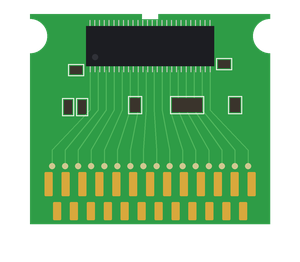
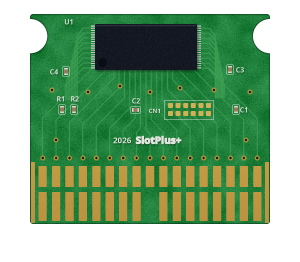
Pokémon mini: START opens the cart to a board drawn after the real one
- assets/src/carts.py pm draws pm_board.png in the WonderSwan board's
  style, after a real board: one wide chip with legs down its short sides,
  the small parts round it, a block of test pads, vias over the contacts
  and two rows of gold contacts, with the 2026 SlotPlus+ mark. No makers'
  names. tools/cart_art/pokemini.py no longer draws the board.
- board_face writes the game's name on the chip; shows_board_alone opens
  it the way the WonderSwan's opens.
- The play-time and gold stickers sit low on the board, either side of
  its mark, so a Pokémon mini shows its play time.

Claude-Session: https://claude.ai/code/session_01ECk6CDMKrY89HoAvKfhDo4

diff --git a/assets/src/carts.py b/assets/src/carts.py
@@ -597,7 +597,120 @@ def lynx():
     rgba_colour(decal, dalpha).save(os.path.join(ASSETS, "lynx_decal.png"))
 
 
-MOULDS = {"ws": wonderswan, "lynx": lynx}
+# --------------------------------------------------------------------------
+# The Pokémon mini board, after the real one: bright green, a half-round cut in
+# each side by the top for the shell's screw posts, one wide flat chip with its
+# legs down both short sides, a few small parts round it, a little block of test
+# pads, a row of vias over the contacts, and two rows of gold contacts along the
+# foot. No makers' names or marks; the slotPlus mark instead.
+
+PM_GREEN = np.array([30, 128, 58], np.float32)
+PM_TRACE = np.array([64, 162, 86], np.float32)
+# Where the chip's marking goes; `slot_ui::board` writes the game's name there.
+PM_ROM = (95, 24, 197, 70)
+PM_BOARD = (30, 14, 270, 224)
+
+
+def pm_pcb(c):
+    rng = np.random.default_rng(61)
+    x0, y0, x1, y1 = PM_BOARD
+    outline = c.rrect(c.layer(), x0, y0, x1, y1, 3)
+    cut = c.layer()
+    for cx in (x0, x1):
+        c.ellipse(cut, cx - 17, 36 - 17, cx + 17, 36 + 17)
+    region = np.clip(f(outline) - f(cut), 0, 1)
+
+    rgb = np.ones((c.H, c.W, 3), np.float32) * PM_GREEN
+    blotch = ndimage.gaussian_filter(rng.normal(0, 1, (c.H // 8 + 1, c.W // 8 + 1)), 2.2)
+    blotch = np.kron(blotch / max(blotch.std(), 1e-6), np.ones((8, 8)))[: c.H, : c.W]
+    rgb += (blotch * 6.0)[..., None].astype(np.float32)
+    rgb += grain((c.H, c.W), 62, 4.0)[..., None]
+
+    count = 17
+    fx0, fx1 = x0 + 6, x1 - 6
+    pitch = (fx1 - fx0) / count
+    finger_x = [fx0 + pitch * (k + 0.5) for k in range(count)]
+    via_y = 158
+    rx0, ry0, rx1, ry1 = PM_ROM
+
+    # Traces: up from the vias over the contacts, a 45-degree jog, and in under
+    # the chip; and out from its legs to the small parts.
+    traces = c.layer()
+    d = ImageDraw.Draw(traces)
+    for k, fx in enumerate(finger_x):
+        tx = rx0 + 8 + k * (rx1 - rx0 - 16) / (count - 1)
+        bend = 134 - abs(k - count // 2) * 2.0
+        route(d, [(fx, via_y), (fx, bend), (tx, bend - abs(fx - tx)), (tx, ry1)], 1.2)
+    for k in range(9):
+        y = ry0 + 4 + k * 5.0
+        route(d, [(rx0 - 4, y), (rx0 - 12, y), (rx0 - 18 - k * 1.5, y + 8 + k * 1.2), (rx0 - 18 - k * 1.5, 100)], 1.0)
+        route(d, [(rx1 + 4, y), (rx1 + 12, y), (rx1 + 18 + k * 1.2, y + 8 + k), (rx1 + 18 + k * 1.2, 98)], 1.0)
+    rgb = paint(rgb, soft(f(traces), 0.2), PM_TRACE, 0.85)
+
+    # The chip, legs down both short sides.
+    rgb = silk_text(c, rgb, rx0 - 26, ry0 - 2, "U1", 7)
+    rgb = chip_with_legs(c, rgb, rx0, ry0, rx1, ry1, "lr", 2.2, leg=4.0, seed=63)
+
+    # The small parts.
+    for (x, y, v, lab, at) in [
+        (64, 68, True, "C4", (54, 72)),
+        (60, 106, True, "R1", (61, 99)), (72, 106, True, "R2", (75, 99)),
+        (132, 108, False, "C2", (136, 101)),
+        (228, 66, True, "C3", (240, 70)),
+        (234, 106, True, "C1", (244, 110)),
+    ]:
+        rgb = passive(c, rgb, x, y, v, lab, at)
+
+    # The block of test pads, two rows of six in a box.
+    rgb = silk_box(c, rgb, 164, 100, 214, 120)
+    pads = c.layer()
+    for row in range(2):
+        for k in range(6):
+            px, py = 168 + k * 7.6, 103 + row * 8
+            c.rrect(pads, px, py, px + 5, py + 5, 0.8)
+    rgb = paint(rgb, f(pads), [210, 176, 86])
+    rgb = silk_text(c, rgb, 155, 111, "CN1", 6)
+
+    # Vias: a row over the contacts, and a few where traces go through.
+    pts = [(fx, via_y) for fx in finger_x]
+    pts += [(52, 90), (88, 92), (120, 86), (180, 88), (214, 90), (250, 92),
+            (56, 140), (246, 140), (150, 92)]
+    rgb = vias(c, rgb, pts, r=2.4)
+
+    # The board's mark, between where the stickers go.
+    rgb = silk_mark(c, rgb, 182, 140, year_px=8, name_px=10)
+
+    # A dark rim round the board's edge.
+    dist = ndimage.distance_transform_edt(region > 0.5) / S
+    rgb = rgb * (1 - 0.35 * np.clip(1.6 - dist, 0, 1))[..., None]
+    rgb = rgb * region[..., None]
+    alpha = region
+    # Two rows of contacts, the lower with a gap in the middle, and a wide pad
+    # at each end.
+    rgb, alpha = fingers(c, fx0, fx1, 166, 187, count, rgb, alpha, width=0.62)
+    lower = c.layer()
+    for k, fx in enumerate(finger_x):
+        if k == count // 2:
+            continue
+        c.rrect(lower, fx - pitch * 0.31, 192, fx + pitch * 0.31, y1 - 3, 0.4)
+    for ex0, ex1 in ((x0 + 1, x0 + 5), (x1 - 5, x1 - 1)):
+        c.rrect(lower, ex0, 162, ex1, y1 - 1, 0.6)
+    g = f(lower)
+    shine = np.linspace(1.08, 0.86, c.H)[:, None]
+    gold = np.array([208, 164, 72], np.float32) * shine[..., None]
+    rgb = rgb * (1 - g[..., None]) + gold * g[..., None]
+    return rgb, np.maximum(alpha, g)
+
+
+def pokemini():
+    """Only the board: the rest of the Pokémon mini's layers come from
+    tools/cart_art/pokemini.py."""
+    c = Canvas(300, 262)
+    board, balpha = pm_pcb(c)
+    rgba_colour(board, balpha).save(os.path.join(ASSETS, "pm_board.png"))
+
+
+MOULDS = {"ws": wonderswan, "lynx": lynx, "pm": pokemini}
 
 if __name__ == "__main__":
     for name in sys.argv[1:] or MOULDS:

diff --git a/tools/cart_art/pokemini.py b/tools/cart_art/pokemini.py
@@ -8,8 +8,9 @@ Writes, all 300x262:
   pm_neutral.png   the grey shell the game's colour is blended onto
   pm_clear.png     the same for a clear shell (the Pokémon mini's usual frosted plastic)
   pm_interior.png  the back half's inside
-  pm_board.png     the board, seen through a clear shell
   pm_decal.png     the hood's lip and its shadow, drawn over the label
+
+The board (pm_board.png) is drawn by assets/src/carts.py pm.
 
 The cart is wider than it is tall. A raised hood runs across the top, with a screw post
 at each corner and a lip that dips in the middle where it overhangs the label. The
@@ -160,53 +161,6 @@ def interior():
     return with_alpha(img, mask())
 
 
-def board():
-    """The board as the real ones are: bright green, a half-round cut at each top corner
-    round the screw posts, one wide flat chip across the top, a few small parts, and two
-    staggered rows of contacts along the bottom edge."""
-    big = Image.new('RGBA', (W * SS, H * SS), (0, 0, 0, 0))
-    d = ImageDraw.Draw(big)
-    S = SS
-    bx0, by0, bx1, by1 = 30, 14, W - 30, 224
-    green, trace, silk = (0x2e, 0x9c, 0x46, 255), (0x52, 0xb8, 0x5e, 255), (0xee, 0xf2, 0xe8, 255)
-    d.rectangle([bx0 * S, by0 * S, bx1 * S, by1 * S], fill=green)
-    # The cuts round the screw posts, and the small notch in the top edge.
-    for cx in (bx0, bx1):
-        d.ellipse([(cx - 17) * S, (36 - 17) * S, (cx + 17) * S, (36 + 17) * S], fill=(0, 0, 0, 0))
-    d.rectangle([(W // 2 - 8) * S, by0 * S, (W // 2 + 8) * S, (by0 + 5) * S], fill=(0, 0, 0, 0))
-    # Traces fanning down from the chip to the contacts.
-    rng = np.random.default_rng(7)
-    for i in range(16):
-        x0 = W // 2 - 60 + i * 8
-        x1 = bx0 + 22 + i * ((bx1 - bx0 - 44) / 15)
-        d.line([x0 * S, 70 * S, x0 * S, 110 * S, x1 * S, 150 * S, x1 * S, 168 * S], fill=trace, width=S)
-        d.ellipse([(x1 - 3) * S, (166 - 3) * S, (x1 + 3) * S, (166 + 3) * S], fill=(0xd0, 0xc8, 0x90, 255))
-    # The chip: a wide flat package with legs along its long sides.
-    cx, cy, cw, ch = W // 2, 46, 64, 20
-    for i in range(26):
-        x = cx - cw + 4 + i * (2 * cw - 8) / 25
-        for side in (-1, 1):
-            y0 = cy + side * ch
-            d.line([x * S, y0 * S, x * S, (y0 + side * 6) * S], fill=(0xc8, 0xc8, 0xc0, 255), width=S)
-    d.rectangle([(cx - cw) * S, (cy - ch) * S, (cx + cw) * S, (cy + ch) * S], fill=(0x1c, 0x1d, 0x22, 255))
-    d.ellipse([(cx - cw + 6) * S, (cy + ch - 12) * S, (cx - cw + 12) * S, (cy + ch - 6) * S], fill=(0x30, 0x31, 0x38, 255))
-    # Small parts in white outlines: two beside the chip, a pair lower left, two on the right.
-    for x, y, w, h in [(70, 66, 12, 8), (W - 82, 60, 12, 8), (64, 100, 8, 14), (78, 100, 8, 14),
-                       (130, 98, 10, 14), (W - 70, 98, 10, 14), (172, 98, 30, 14)]:
-        d.rectangle([(x - 2) * S, (y - 2) * S, (x + w + 2) * S, (y + h + 2) * S], outline=silk, width=S)
-        d.rectangle([x * S, y * S, (x + w) * S, (y + h) * S], fill=(0x3a, 0x34, 0x2c, 255))
-    # Two staggered rows of gold contacts, the upper longer, along the bottom edge.
-    n = 13
-    pitch = (bx1 - bx0 - 20) / n
-    for i in range(n):
-        x = bx0 + 10 + pitch * (i + 0.5)
-        d.rounded_rectangle([(x - 4) * S, 172 * S, (x + 4) * S, 196 * S], radius=S, fill=(0xd8, 0xa8, 0x3c, 255))
-        if i < n - 1:
-            x2 = x + pitch / 2
-            d.rounded_rectangle([(x2 - 4) * S, 202 * S, (x2 + 4) * S, 220 * S], radius=S, fill=(0xd8, 0xa8, 0x3c, 255))
-    return big.resize((W, H), Image.Resampling.LANCZOS)
-
-
 def decal():
     """Over the label: the hood's lip and the soft shadow it casts on the label's top edge."""
     img = Image.new('RGBA', (W, H), (0, 0, 0, 0))
@@ -233,9 +187,8 @@ def main():
     neutral().save(out / 'pm_neutral.png', optimize=True)
     clear().save(out / 'pm_clear.png', optimize=True)
     interior().save(out / 'pm_interior.png', optimize=True)
-    board().save(out / 'pm_board.png', optimize=True)
     decal().save(out / 'pm_decal.png', optimize=True)
-    print(f'pm_cart/neutral/clear/interior/board/decal.png in {out}')
+    print(f'pm_cart/neutral/clear/interior/decal.png in {out}')
 
 
 if __name__ == '__main__':

diff --git a/crates/slot-ui/tests/board.rs b/crates/slot-ui/tests/board.rs
@@ -466,3 +466,53 @@ fn a_gba_cart_keeps_the_gba_picker_geometry() {
     }
     assert_eq!(slot_ui::seats(None), slot_ui::GBA_SEATS);
 }
+
+#[test]
+fn a_pokemon_mini_cart_shows_its_own_board_with_the_game_on_its_chip() {
+    let pm = Cart {
+        platform: Platform::Pm,
+        rom: "Games/PokeMini/Pokemon Puzzle Collection.min".into(),
+        ..cart("Pokemon Puzzle Collection", "")
+    };
+    let other = Cart {
+        stem: "Pokemon Party mini".into(),
+        ..pm.clone()
+    };
+    let face = board_face(&pm);
+    assert_eq!((face.w, face.h), (300, 262), "the board fills the cart");
+    let at = |f: &CartFace, x: u32, y: u32| {
+        let i = ((y * f.w + x) * 4) as usize;
+        [f.rgba[i], f.rgba[i + 1], f.rgba[i + 2], f.rgba[i + 3]]
+    };
+    let green = at(&face, 60, 150);
+    assert!(
+        green[1] > green[0] + 40 && green[3] == 255,
+        "green board: {green:?}"
+    );
+    assert_eq!(at(&face, 5, 130)[3], 0, "nothing outside the board");
+    let chip = (
+        slot_ui::PM_ROM_X,
+        slot_ui::PM_ROM_Y,
+        slot_ui::PM_ROM_W,
+        slot_ui::PM_ROM_H,
+    );
+    let differs = (chip.0..chip.0 + chip.2)
+        .flat_map(|x| (chip.1..chip.1 + chip.3).map(move |y| (x, y)))
+        .filter(|&(x, y)| at(&face, x, y) != at(&board_face(&other), x, y))
+        .count();
+    assert!(differs > 30, "each game's name is on its chip: {differs}");
+    let (sw, sh) = (
+        slot_ui::shelf_life::STICKER_W,
+        slot_ui::shelf_life::STICKER_H,
+    );
+    let play = slot_ui::shelf_life::sticker_at(&pm, &face).expect("a play-time spot");
+    let gold = slot_ui::shelf_life::gold_sticker_at(&pm, &face).expect("a gold spot");
+    assert!(play.0 + sw <= gold.0, "side by side");
+    for (x, y) in [play, gold] {
+        assert!(
+            y >= chip.1 + chip.3 && y + sh < 160,
+            "below the chip, above the contacts"
+        );
+        assert!(x >= 30 && x + sw <= 270, "on the board");
+    }
+}

diff --git a/crates/slot-ui/src/board.rs b/crates/slot-ui/src/board.rs
@@ -71,11 +71,20 @@ pub const WS_ROM_X: u32 = 124;
 pub const WS_ROM_Y: u32 = 28;
 pub const WS_ROM_W: u32 = 112;
 pub const WS_ROM_H: u32 = 60;
+/// slotPlus: where the game's name is marked on the Pokémon mini board's chip, as
+/// `PM_ROM` in assets/src/carts.py.
+pub const PM_ROM_X: u32 = 95;
+pub const PM_ROM_Y: u32 = 24;
+pub const PM_ROM_W: u32 = 102;
+pub const PM_ROM_H: u32 = 46;
 
 /// slotPlus: carts whose back can be turned to, with nothing to pick there, only the
 /// board (and the play-time sticker) to see.
 pub fn shows_board_alone(platform: slot_store::Platform) -> bool {
-    platform == slot_store::Platform::Ws
+    matches!(
+        platform,
+        slot_store::Platform::Ws | slot_store::Platform::Pm
+    )
 }
 
 fn marking_sized(title: &[String], w: u32, h: u32) -> CartFace {
@@ -111,6 +120,17 @@ pub fn board_face(cart: &Cart) -> CartFace {
         };
         let mark = marking_sized(&rom_marking(&cart.stem), WS_ROM_W, WS_ROM_H);
         over(&mut face, &mark, WS_ROM_X, WS_ROM_Y);
+        return face;
+    }
+    if cart.platform == slot_store::Platform::Pm {
+        let (w, h) = bitmaps::Mould::Pm.size();
+        let mut face = CartFace {
+            rgba: bitmaps::extra_board(bitmaps::Mould::Pm).to_vec(),
+            w,
+            h,
+        };
+        let mark = marking_sized(&rom_marking(&cart.stem), PM_ROM_W, PM_ROM_H);
+        over(&mut face, &mark, PM_ROM_X, PM_ROM_Y);
         return face;
     }
     let mut face = CartFace {

diff --git a/crates/slot-ui/src/shelf_life.rs b/crates/slot-ui/src/shelf_life.rs
@@ -1311,7 +1311,7 @@ fn paste(back: &mut CartFace, paper: &[u8], sw: u32, sh: u32, (x0, y0): (u32, u3
 }
 
 /// Where a play-time sticker goes on the back of a cart: on the board of a GBA or Game Boy
-/// or WonderSwan cart, and low on the back of a Lynx card. Other carts have no back to
+/// or WonderSwan or Pokémon mini cart, and low on the back of a Lynx card. Other carts have no back to
 /// show yet.
 pub fn sticker_at(cart: &Cart, back: &CartFace) -> Option<(u32, u32)> {
     use slot_store::Platform;
@@ -1323,6 +1323,8 @@ pub fn sticker_at(cart: &Cart, back: &CartFace) -> Option<(u32, u32)> {
         ),
         Platform::Gba | Platform::Gbav => (224, 56),
         Platform::Ws => (250, 104),
+        // Low on the Pokémon mini board, either side of its mark.
+        Platform::Pm => (38, 126),
         Platform::Gb | Platform::Gbc if gb_shell_of(cart).is_some() => (28, 14),
         _ => return None,
     };
@@ -1350,6 +1352,7 @@ pub fn gold_sticker_at(cart: &Cart, back: &CartFace) -> Option<(u32, u32)> {
         Platform::Lynx => (16, back.h.saturating_sub(sh + 12)),
         Platform::Gba | Platform::Gbav => (224, 27),
         Platform::Ws => (66, 114),
+        Platform::Pm => (186, 126),
         Platform::Gb | Platform::Gbc if gb_shell_of(cart).is_some() => (28, 46),
         _ => return None,
     };

diff --git a/crates/slot/tests/app.rs b/crates/slot/tests/app.rs
@@ -2512,6 +2512,28 @@ fn start_on_a_wonderswan_cart_shows_its_board_alone() {
     assert!(!d.path().join(slot_store::SELECTED_CORE_FILE).exists());
 }
 
+/// slotPlus: a Pokémon mini cart opens the same way, to its board.
+#[test]
+fn start_on_a_pokemon_mini_cart_shows_its_board_alone() {
+    let d = common::tmp_root_with_carts(&[]);
+    let pm = d.path().join("Games/PokeMini");
+    std::fs::create_dir_all(&pm).unwrap();
+    for stem in ["Pokemon Puzzle Collection", "Pokemon Party mini"] {
+        std::fs::write(pm.join(format!("{stem}.min")), vec![0u8; 0x10000]).unwrap();
+    }
+    let (d, mut app) = booted_on_shelf(d);
+    fake_picker_faces(&mut app);
+    assert_eq!(app.selected_cart().map(|c| c.platform), Some(Platform::Pm));
+    app.apply(Action::GbaDown(Btn::Start));
+    assert_eq!(app.core_picker(), Some(Core::Pokemini));
+    let_it_hop(&mut app);
+    app.apply(Action::GbaDown(Btn::B));
+    let_it_close(&mut app);
+    let_it_close(&mut app);
+    assert_eq!(app.core_picker(), None);
+    assert!(!d.path().join(slot_store::SELECTED_CORE_FILE).exists());
+}
+
 #[test]
 fn select_on_the_opened_cart_prints_its_achievement_set_only_when_it_has_one() {
     let (_d, mut app) = on_shelf(&["Emerald", "Zzz"]);

diff --git a/crates/slot-ui/src/lib.rs b/crates/slot-ui/src/lib.rs
@@ -70,7 +70,7 @@ pub use board::{
     shelf_cart, shelf_cart_at, shelf_cart_shaped, slide_of, socket_face, socket_face_text,
     update_cart_face, Placed, Seats, BOARD_H, BOARD_W, BOARD_Y, CHIP_H, CHIP_TIP, CHIP_U, CHIP_V,
     CHIP_W, FINGERS, FINGER_H, FINGER_Y, GBA_SEATS, HOLD_NAMES, HOP_LIFT, LID_TURN, ROM_H, ROM_W, ROM_X, ROM_Y,
-    WS_ROM_H, WS_ROM_W, WS_ROM_X, WS_ROM_Y,
+    WS_ROM_H, WS_ROM_W, WS_ROM_X, WS_ROM_Y, PM_ROM_H, PM_ROM_W, PM_ROM_X, PM_ROM_Y,
     SHADOW_H, SHADOW_W, SLIDE_SHARE, SLIDE_UP, SOCKET_H, SOCKET_U, SOCKET_V, SOCKET_W, TURN_PAD,
 };
 pub use cart::{

diff --git a/CHANGELOG.md b/CHANGELOG.md
@@ -6,6 +6,7 @@ Work toward slotPlus 3.0, "the cart remembers", on the `cart-remembers` branch. 
 
 - **Play time.** slotPlus counts how long you play each game (paused menus, loading and sleep don't count) and keeps it in `Saves/play_log.txt`. Press START on a GBA, Game Boy or WonderSwan cart and its board carries a small handwritten sticker with the time; a Lynx card shows it on its back.
 - **A WonderSwan board.** START on a WonderSwan cart now opens it to show its board, drawn after Bandai's own: the coin cell in its clip, the ROM with the game's name on it, the mapper, the save RAM and the band of vias over the contacts. A or B closes it. The same board shows through clear WonderSwan shells. slotPlus's own boards (WonderSwan, Lynx) are marked "2026 SlotPlus+".
+- **Inside the Pokémon mini cart.** START now opens a Pokémon mini cart to its board, as it opens a WonderSwan's, drawn after a real one: one wide chip with the game's name on it, the small parts round it, and two rows of gold contacts. Its play-time and achievements stickers go low on the board, so a Pokémon mini shows its play time at last. A clear shell shows the new board through it.
 - **Shelf Life**, a new page at the foot of Settings → Shelf, with three switches, all on to start:
   - **Shrink Wrap:** a game you've never played sits on the shelf in shrink wrap: clear film that hangs a little loose around the cart, wavy at the edges, cloudy and glossy, creased where it folds, with a crimped seal along the top. Each wrapped game carries a price sticker on the film: a marked-down yellow tag, a price-gun label, a scalloped label with a stock number or a shop label. Which one, its price and its corner come from the game, so a game always wears the same sticker. The price is in the money of where the game was sold: yen (¥4,800) on a Japan-only release, euros (29,99 €) on a release for Europe only, and dollars otherwise, including when a game was sold in more than one of them. The first time you put the cart in, the film rips down the middle with a crackle of cellophane and its two halves peel away, sticker and all, before the cart goes into the slot. A game with a save on the card, or on the Recents shelf, is never wrapped.
   - **Dust:** a cart left alone gathers dust: a little after two weeks, more after six, thick after three months, when it lies grey along the top edges with darker grime among the specks and fluff. The clock starts the first time the card sees the game.

diff --git a/SYSTEMS.md b/SYSTEMS.md
@@ -286,7 +286,7 @@ Either way the D-pad is the Y pad, the four face buttons are the X pad, L1 is A 
 | **Picture** | Shown at 6x, or at 7.5x to fill the screen with Settings → Screen → Pokémon mini → Full Screen. The screen's grey shades come from its LCD's ghosting, so they're kept. |
 | **Shaders** | Off, LCD3x, Grid (the default), Dot, Shimmerless, Transparent. |
 | **Bezel** | Your own in `Bezels/PokeMini/`. |
-| **Cart** | The small Pokémon mini cart. With Cart Slot set to Bespoke, the slot is the back of a blue Pokémon mini. |
+| **Cart** | The small Pokémon mini cart. With Cart Slot set to Bespoke, the slot is the back of a blue Pokémon mini. START opens it to its board, drawn after the real one: one wide chip with the game's name on it, the small parts round it, and two rows of gold contacts. The play-time sticker and the gold achievements sticker go low on the board, either side of its mark. A clear shell shows the same board through it. |
 | **Saves** | Kept with the game's other saves in `Saves/PokeMini/`, plus save states and the resume state. |
 
 ### Controls
